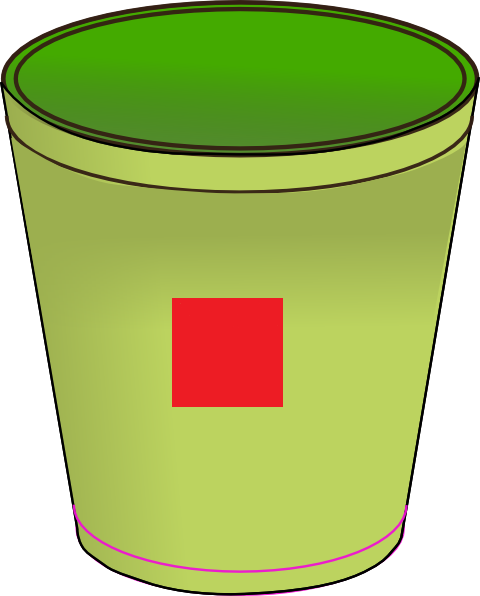
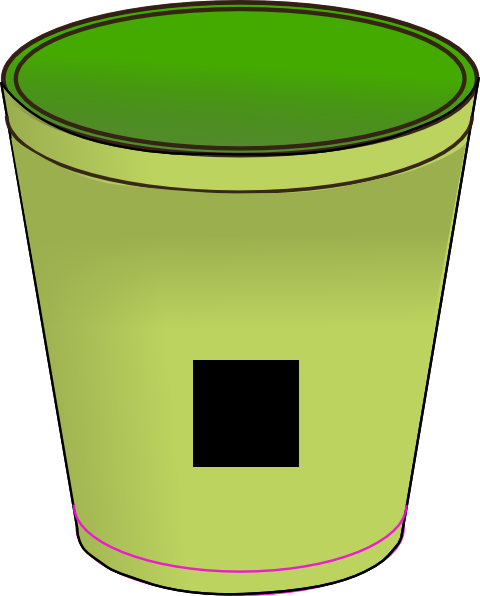
chaged shape color

Changed region(s): [[0.3438, 0.4832, 0.625, 0.7852]]

diff --git a/about-us.html b/about-us.html
@@ -1,57 +1,60 @@
 
-<html> 
-    <head>
-        <title> Game Name </title>
-        <link rel="stylesheet" href="reset.css">
-        <link rel="stylesheet" href="about-us.css">
-      </head>
-      <body>
-
-    <nav> 
-        <ul>
-            <li><a href= "index.html">Home</a></li>
-            <li><a href= "directions">Directions</a></li>
-            <li><a href= "game">Game</a></li>
-
-        </ul>
-    </nav>
-    <h1>Get to know the devolepment team!</h1>
-    
-    <section class="section1">
-    <h3>Kelly</h3>
-       <img id="picture1" src="https://scontent-sea1-1.xx.fbcdn.net/v/t1.0-9/1509951_10152159398691983_1499429468_n.jpg?oh=0b06aae7a1fcfad14e823d68f1462bee&oe=5B091365" alt="facePic.">" 
-         <p>Words about me</p>
-        <ul>
-            <a href=>cornerkick87@gmail.com</a>
-                <a href=>https://github.com/cornerkick87</a>
-            </ul>
-        
-         <h3>Kelly</h3>
-        <img id ="picture2" src="https://scontent-sea1-1.xx.fbcdn.net/v/t1.0-9/1509951_10152159398691983_1499429468_n.jpg?oh=0b06aae7a1fcfad14e823d68f1462bee&oe=5B091365" alt="facePic."> 
-         <p>Words about me</p>
-        <ul>
-            <a href=>email</a>
-            <a href=>Github account</a>
-            </ul>
-         </section>
-         <section class="section1">
-        <h3>Name</h3>
-        <img id="picture3" src="https://scontent-sea1-1.xx.fbcdn.net/v/t1.0-9/1509951_10152159398691983_1499429468_n.jpg?oh=0b06aae7a1fcfad14e823d68f1462bee&oe=5B091365" alt="facePic."> 
-         <p>Words about me</p>
-        <ul>
-            <li>email</li>
-            <li>github</li>
-        </ul>
-        
-         <h3>Name</h3>
-        <img id = "picture4" src="https://scontent-sea1-1.xx.fbcdn.net/v/t1.0-9/1509951_10152159398691983_1499429468_n.jpg?oh=0b06aae7a1fcfad14e823d68f1462bee&oe=5B091365" alt="facePic."> 
-         <p>Words about me</p>
-         <ul>
-             <li>email</li>
-             <li>github</li>
-         </ul>
-         </section>
-         <p id="thanks">Special thanks to </p>
+<!DOCTYPE html>
+<html>
+  <head>
+    <meta charset="utf-8">
+    <title>About shape Fellows</title>
+    <link rel="stylesheet" href="reset.css">
+    <link rel="stylesheet" href="about-us.css">
+    <link id="theme" rel="stylesheet" href="../styles/colors/light.css">
+    <link href="https://fonts.googleapis.com/css?family=Libre+Baskerville|Signika+Negative" rel="stylesheet">
+  </head>
+  <body>
+    <section id="tearaway">
+      <header>
        
-      </body>
-    </html>
+      </header>
+      <hr>
+        <div>
+          <a href="index.html">Return</a>
+        </div>
+      <hr>
+      <main class="o90">
+        <p>  shape Fellows is the brainchild of N.sjdjsdsdosiofsifsfnshshffsnfshfsnfhsfnashfushf</p>
+
+       
+        <span id="profiles">
+          <ul>
+            <li><img src="Assets/ria single.jpg" alt=""></li>
+            <li><img src="Assets/katyPic.jpg" alt=""></li>
+            <br />
+            <h3>Ria Agnes Jose</h3>
+            <h3>Katy</h3>
+            <br />
+            <h4>https://www.linkedin.com/in/ria-agnes-jose/</h4>
+            <h4>https://www.linkedin.com/in/katyvine/</h4>
+            <br />
+            <h4> https://github.com/riaagnes</h4>
+            <h4>https://github.com/katyvine </h4>
+            <br />
+            <li><img src="Assets/collin.jpg" alt=""></li>
+            <li><img src="Assets/kelly.jpg" alt=""></li>
+            <br />
+            <h3>collin</h3>
+            <h3>kelly</h3>
+            <br />
+            <h4>https://www.linkedin.com/in/collin-hintzke</h4>
+            <h4>https://www.linkedin.com/feed/</h4>
+            <br />
+            <h4>https://github.com/Dekklin </h4>
+            <h4>https://github.com/cornerkick87</h4>
+          </ul>
+        </span>
+        <p>  This has been a wonderful opportunity for us to practice the skillset we have learned over the past month. We challenged ourselves every day during this project, learning new skills and reinforcing ones we already had.</p>
+
+        <p> Special thanks to John cooks, Allie Grampa, Andrew bloom, catherine,  and the rest of the CodeFellows staff for guiding us through Code 201. We would never have gotten this far on our own. </p>
+        <hr>
+      </main>
+
+  </body>
+</html>

diff --git a/about-us.css b/about-us.css
@@ -1,49 +1,91 @@
-
 body{
     background:linear-gradient(to right, #669999 20%, #00ffcc 92%);
-   };
- 
-/* .section1 {
-display: inline;
-margin: 40em;
-padding: 30em;
-border: solid, grey;
-} */
-.section1 {
-display:inline;
-  /* padding: 0 3.3em;
-  line-height:70px; 
-  position: relative;
-  margin-right: 145px; */
-  
+}
+main {
+	width: 100%;
+	height: auto;
+	margin: 0 auto;
 }
 
-nav{
-    margin:100px 0px 10px 650px;
-   }
-   nav ul{
-    margin:0px;
-    padding:5px 0px 5px 30px;
-    list-style-type: none;
-   }
-   nav li{
-    display:inline-block;
-    margin-right:40px;
-   }
-   nav li a{
-    color:#ffffff;
-   }
-   nav li a:hover,nav li a.current{
-    color:#000000;
-   }
-   img {
-       width:300px;
-       margin-top: -158px;
-   }
-   #thanks {
-       text-align:center;
-   }
-   h1 {
-    font-family: 'Press Start 2P', cursive       
-   
+header {
+	width: 960px;
+	margin: 0 auto;
+}
+#ria{
+	margin-left:600px;
+}
+
+
+h4{
+	display:inline-block;
+	padding-right:40px;
+	padding-left: 30px;
+	font-size: 18px;
+	padding-top:5px;
+	padding-bottom: 5px;
+}
+
+hr {
+	height: 10px;
+	border: 0;
+	box-shadow: 0 10px 10px -10px #8c8b8b inset;
+}
+
+a {
+	text-align: center;
+	display: block;
+	width: 100px;
+	margin: 0 auto;
+	text-decoration: none;
+}
+
+p {
+	margin: 0 auto;
+	padding: 1.5em 0;
+  font-size: 1.25em;
+	line-height: 1.5em;
+	width: 70%;
+}
+
+ul {
+	margin: 0 auto;
+  width: 90%;
+}
+
+li {
+  padding: 1em 2.75em;
+  margin: 0 auto;
+  display: inline;
+}
+
+section>section>p:first-child {
+	font-size: 50px;
+}
+
+section>section>p {
+	text-align: center;
+	font-size: 40px;
+	width: 30px;
+	margin: 0 auto;
+	padding: 0;
+}
+
+section>section>p:last-child {
+	font-size: 30px;
+}
+
+img {
+    width: 200px;
+    height:200px
+
+}
+
+#profiles {
+	text-align: center;
+}
+
+
+#blank {
+	background-color: black;
+	height: 710px;
 }

diff --git a/game.js b/game.js
@@ -4,7 +4,7 @@
 var currentSelected = null;
 var shapes = [];
 
-
+var points =0;
 
 // random shape function
 function randomShapes() {
@@ -52,9 +52,9 @@ function clickedOnShape(event) {
     for(var i in shapes){
         if(((event.offsetX/3)>= shapes[i].x-2) && ((event.offsetX/3) <= shapes[i].x+17) && ((event.offsetY/3) >= shapes[i].y-8) && ((event.offsetY/3) <= shapes[i].y+23)){
             currentSelected = shapes[i];
-            
+
             shapes.splice(i, 1);
-           
+
             console.log('got it');
             console.log(currentSelected);
         }
@@ -101,7 +101,7 @@ if (shapeArray === []){
 
 function Bucket() {
     var randomNumber = randomBucketShape();
-   // console.log('bucket Num: ' + randomNumber);
+    // console.log('bucket Num: ' + randomNumber);
     this.shape = shapeArray[randomNumber],
     // this.color = colorArray[randomNumber],
     this.src = sourceArray[randomNumber],
@@ -130,9 +130,10 @@ basket2.addEventListener('click',clickBucketHandler);
 basket3.addEventListener('click',clickBucketHandler);
 
 
+
 function clickBucketHandler(event){
     console.log(event.target.id);
-  
+
     var i = event.target.id.slice(-1);
     if(currentSelected.shape === Bucket.bucketArray[i].shape){
         console.log('congrats');
@@ -140,10 +141,16 @@ function clickBucketHandler(event){
         for (var j in shapes){
             shapes[j].drawShape();
         }
+        points+=100;
+
+    }
+  
 }
 //     if(currentSelected.shape===Bucket.currentSelected)
 
-}
+
+
+
 
 
 Shape.prototype.drawShape = function(){
@@ -202,3 +209,5 @@ new Shape();
 new Shape();
 new Shape();
 new Shape();
+
+//if current selected.shape === Bucket.bucketArray[i].shape

diff --git a/game.html b/game.html
@@ -7,6 +7,7 @@
     
   </head>
   <body>
+    
     <canvas id="shape"></canvas>
     <section>
    <img  id ="basket0"src ="">
